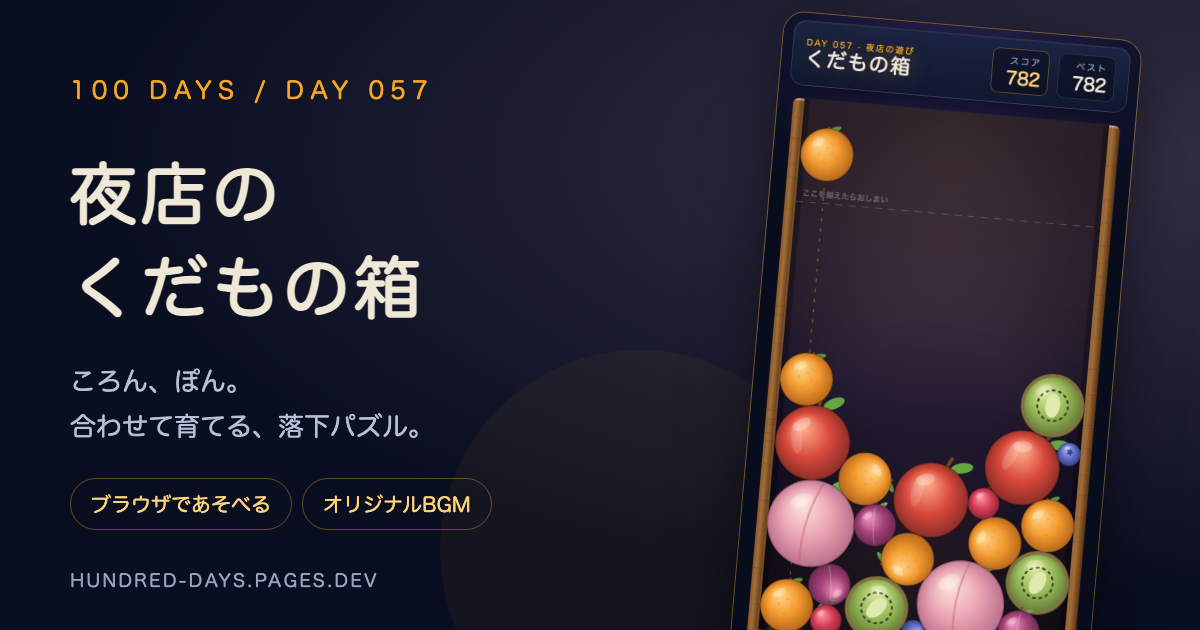
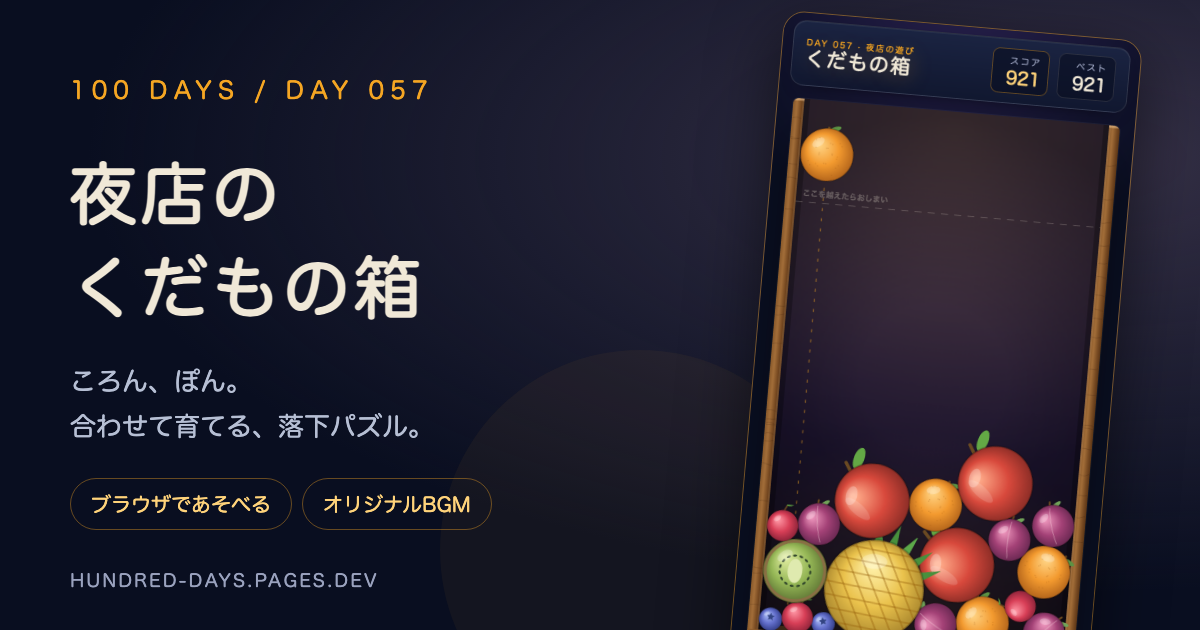
fix: Day57の共通共有と小画面の再開を修正

Changed region(s): [[0.6167, 0.5429, 0.925, 1.0], [0.8325, 0.0905, 0.8633, 0.1508], [0.8942, 0.1206, 0.925, 0.1508]]

diff --git a/day-057-fruit-box/index.html b/day-057-fruit-box/index.html
@@ -43,15 +43,15 @@
           <p class="card__badge" id="fbadge" hidden>自己ベスト更新</p>
           <p class="card__meta" id="fmeta">ベスト 0点 ／ 最高到達 ブルーベリー</p>
           <button class="btn" id="btn-again">もう一度あそぶ</button>
-          <div id="share"><section class="share" aria-labelledby="share-label">
-            <h2 id="share-label" class="share__label">今回のスコアを共有する</h2>
-            <div class="share__row">
-              <a id="sh-x" class="share__button" target="_blank" rel="noopener noreferrer">Xで投稿</a>
-              <a id="sh-line" class="share__button" target="_blank" rel="noopener noreferrer">LINEで送る</a>
-              <button id="sh-native" class="share__button" hidden>共有…</button>
-              <button id="sh-copy" class="share__button">リンクをコピー</button>
+          <div id="score-share"><section class="score-share" aria-labelledby="score-share-label">
+            <h2 id="score-share-label" class="score-share__label">今回のスコアを共有する</h2>
+            <div class="score-share__row">
+              <a id="sh-x" class="score-share__button" target="_blank" rel="noopener noreferrer">Xで投稿</a>
+              <a id="sh-line" class="score-share__button" target="_blank" rel="noopener noreferrer">LINEで送る</a>
+              <button id="sh-native" class="score-share__button" hidden>共有…</button>
+              <button id="sh-copy" class="score-share__button">リンクをコピー</button>
             </div>
-            <span id="share-said" class="share__said" role="status"></span>
+            <span id="share-said" class="score-share__said" role="status"></span>
           </section></div>
         </div>
       </div>
@@ -81,12 +81,16 @@
       <button class="icon" id="btn-music" aria-label="BGMをオフにする" aria-pressed="true" title="BGM">♪<span>BGM</span></button>
       <button class="icon" id="btn-effects" aria-label="効果音をオフにする" aria-pressed="true" title="効果音">♬<span>効果音</span></button>
       <button class="icon" id="btn-restart" aria-label="やり直す" title="やり直す">↻</button>
+      <button class="icon" id="btn-share" aria-label="このアプリを共有する" title="共有">↗<span>共有</span></button>
     </div>
     <p id="controls">同じくだものを合わせよう。PCは ← → と Space。<a href="about.html" target="_blank" rel="noopener noreferrer" title="別のタブで開きます">遊び方・素材</a></p>
   </footer>
   <p id="notice" class="sr-only" role="status" aria-live="polite"></p>
 </main>
-
+<dialog id="app-share-dialog" class="app-share-dialog" aria-label="このアプリを共有する">
+  <div id="share"></div>
+  <button class="btn" id="btn-share-close">箱に戻る</button>
+</dialog>
 
 <script src="vendor/matter-0.20.0.min.js"></script>
 <script type="module" src="app.js"></script>

diff --git a/day-057-fruit-box/app.css b/day-057-fruit-box/app.css
@@ -177,6 +177,7 @@ html,body{height:100%;height:100dvh;overflow:hidden}
 .score{min-width:62px;padding:6px 8px}.score dd{font-weight:800}
 .frame:focus-within{box-shadow:0 0 0 2px var(--lantern),0 24px 44px -18px #000}
 #cv:focus-visible{outline:0}.veil{overflow-y:auto;overscroll-behavior:contain;z-index:2}
+.veil{position:fixed;inset:0;border-radius:0;z-index:10;place-items:safe center;touch-action:pan-y}
 .tray{grid-template-columns:auto 1fr;grid-template-areas:"next acts" "chain chain" "controls controls";gap:7px 10px;padding:8px 10px}
 .acts{justify-content:flex-end;gap:5px}.icon{width:44px;height:44px;border-radius:12px;font:700 22px var(--sans);line-height:1;border-color:rgba(240,232,215,.55)}
 .icon span{display:block;font-size:9px;line-height:1}.icon.off{opacity:.68;background:transparent}
@@ -198,6 +199,17 @@ html,body{height:100%;height:100dvh;overflow:hidden}
 .tray{grid-template-areas:"next acts" "goal goal" "chain chain" "controls controls"}.chain li{width:20px;background:none!important;opacity:.35}.chain img{width:100%;height:100%;object-fit:contain}.chain li.on{box-shadow:none}
 #goal{grid-area:goal;text-align:center;margin:0;color:var(--lantern-soft);font-size:11px;line-height:1.3}
 @media(max-height:600px){.chain li{width:15px}#goal{font-size:10px}}
+.acts{gap:4px}.next{gap:4px}#nextcv{width:32px;height:32px}
+.score-share{border-top:1px solid var(--line);margin-top:6px;padding-top:8px;width:100%}
+.score-share__label{font-size:11px;color:var(--paper-dim);margin:0 0 6px}
+.score-share__row{display:flex;flex-wrap:wrap;justify-content:center;gap:6px}
+.score-share__button{display:inline-flex;align-items:center;justify-content:center;min-height:44px;padding:0 12px;border:1px solid var(--paper-dim);border-radius:10px;font:11px var(--sans);background:var(--night-1);color:var(--paper);text-decoration:none;cursor:pointer}
+.score-share__button[hidden]{display:none}.score-share__said{font-size:11px;min-height:1em;display:block;margin-top:4px}
+.app-share-dialog{max-width:min(92vw,420px);max-height:85dvh;overflow:auto;border:1px solid var(--line);border-radius:16px;padding:24px;color:var(--paper);background:var(--night-1);text-align:center}
+.app-share-dialog::backdrop{background:rgba(9,14,32,.8)}
+.app-share-dialog #share .share{padding-top:0;margin:0;border:0}
+.app-share-dialog #share .share__note{margin:12px 0;line-height:1.65}
+@media(max-width:359px){.tray{grid-template-areas:"next goal" "acts acts" "chain chain" "controls controls"}.acts{justify-content:center}#goal{font-size:10px}}
 
 .guide-root{height:auto;overflow:auto}
 .guide-page{height:auto;min-height:100dvh;overflow:auto;overscroll-behavior:auto}

diff --git a/day-057-fruit-box/app.js b/day-057-fruit-box/app.js
@@ -143,6 +143,7 @@ var over=false, paused=false, heat=0, shakeAmt=0, tPrev=0, acc=0, elapsed=0, sta
 var cv=$('#cv'), ctx=cv.getContext('2d'), frame=$('#frame'), board=$('#board');
 var elScore=$('#score'), elBest=$('#best'), elHint=$('#hint'), veil=$('#veil');
 var nextCv=$('#nextcv'), nextCtx=nextCv.getContext('2d'), nextName=$('#nextname');
+var appShareDialog=$('#app-share-dialog'), shareWasPaused=false;
 var chainEl=$('#chain'), chainItems=[], viewScale=1;
 
 for(var ci=0;ci<FRUITS.length;ci++){
@@ -480,6 +481,7 @@ cv.addEventListener('pointerup',function(e){
 cv.addEventListener('pointercancel',function(e){if(e.pointerId===activePointer){pressing=false;activePointer=null;}});
 cv.addEventListener('lostpointercapture',function(){pressing=false;activePointer=null;});
 addEventListener('keydown',function(e){
+  if(appShareDialog.open)return;
   var modal=!veil.hidden?veil:!$('#pause-veil').hidden?$('#pause-veil'):null;
   if(e.key==='Tab'&&modal){
     var items=Array.from(modal.querySelectorAll('button:not([hidden]),a[href],input'));
@@ -513,11 +515,17 @@ function setPaused(value){
 }
 $('#btn-pause').addEventListener('click',()=>{void sfx.unlock();setPaused(!paused);});
 $('#btn-resume').addEventListener('click',()=>setPaused(false));
-function pauseAway(){sfx.setActive(false);if(!over)setPaused(true);}
+function pauseAway(){sfx.setActive(false);if(!over&&!appShareDialog.open)setPaused(true);}
 document.addEventListener('visibilitychange',()=>{if(document.hidden)pauseAway();});
 window.addEventListener('pagehide',pauseAway);
 window.addEventListener('blur',pauseAway);
 $('#btn-again').addEventListener('click',()=>{restart();cv.focus({preventScroll:true});});
+$('#btn-share').addEventListener('click',()=>{
+  if(over)return;
+  shareWasPaused=paused;setPaused(true);$('#pause-veil').hidden=true;appShareDialog.showModal();
+});
+$('#btn-share-close').addEventListener('click',()=>appShareDialog.close());
+appShareDialog.addEventListener('close',()=>setPaused(shareWasPaused));
 
 var btnRestart=$('#btn-restart'),armed=0;
 btnRestart.addEventListener('click',function(){

diff --git a/.agent-harness/runs/day057-fruit-box.md b/.agent-harness/runs/day057-fruit-box.md
@@ -17,9 +17,10 @@
 
 - 全単体テスト：2437合格、既存1件skip、失敗0。
 - Day57単体：12件合格。二重合成、最終果物、危険猶予、音停止・保存を検証。
-- Day57 E2E：12件合格。390×844/768×1024/1440×900/390×600、実CSP、合成・保存・操作・音・共有・再挑戦。
+- Day57 E2E：13件合格。390×844/768×1024/1440×900/390×600/320×568、実CSP、合成・保存・操作・音・共有・再挑戦。
 - 説明ページ修正後の該当E2Eも合格。390×844で末尾までスクロールできる。
-- 固定した同種乱数では合成が続いて終了しなかったため、通常分布のseed 429735と7レーンに修正。実物理を進め、ゲーム状態を強制変更せず終了を確認した。
+- 自然な積み上げ終了は独立の実操作で確認。描画もMath.randomを使うため、乱数だけ固定した終了E2Eは初期時計・描画の差で揺れた。
+- 終了E2Eは実際に落下・合成・着地した果物の実Matter Bodyを安定した危険位置に置くfixtureに変更し、1600msでは続行、1850msでは終了・共有・再挑戦を検証。製品コードに試験用の状態変更APIは設けていない。
 - precheck合格。Day57にテキスト警告なし。新しい画像2枚は目視済み。
 - build合格、57件の索引と共有ファイル整合を確認。
 - スクリーンショット780×1688、OGP1200×630。PNGはIHDR/IDAT/IEND、WebPはVP8のみで個人メタデータなし。
@@ -37,6 +38,15 @@
 再開・再挑戦ボタンも44px以上に揃えた。重大な未解決指摘はない。
 
 独立評価：体験19/20、UI18/20。継続利用、補助文字の小ささ、Canvas中心のアクセシビリティは各1点。他の項目は各2点で、実操作・幅別画像に基づく。未確認の聴感や実機体験を推測で採点していない。
+
+## CIの共有入口の修正
+
+最初の全体CIは1154件合格、共通共有テスト3件失敗。結果だけの共有欄では共通の入口・URLコピーを満たしていなかった。
+共通shared/share.jsをネイティブダイアログに通常どおり据え付け、初期画面に共有ボタンを追加した。開く間は箱を停止し、Esc/閉じる操作で同じ箱に復帰する。
+結果の得点共有は専用クラスに分け、アプリのURLコピーと混同しない。共通のテストや正本ファイルは変更していない。
+追加した320×568の検査で再開ボタンが箱内からはみ出したため、停止と結果を画面全体のオーバーレイに変更した。
+追加の独立確認で320/360/390/768/1440の5操作が44px、停止・結果のボタンが画面内、共有前後の箱と音の停止・復帰、通常の128回落下で3825点の終了・得点コピー・再挑戦を確認した。
+修正後のDay57 E2E13件と共通共有5件は、合わせて18件合格した。
 
 ## 確認の限界
 

diff --git a/day-057-fruit-box/README.md b/day-057-fruit-box/README.md
@@ -15,6 +15,7 @@
 - やり直しは確認のため2回押す。終了後は「もう一度」で再挑戦。
 
 ベスト得点と音設定はこのブラウザだけに保存する。操作中の外部通信はなく、X・LINE・端末共有・コピーは結果画面で利用者が選ぶ。
+共有ボタンからはゲームのリンクを送れる。共有画面を開いている間は箱が止まり、閉じると元の箱へ戻る。結果画面のコピーには今回の得点も入る。
 
 ## 設計と素材
 
